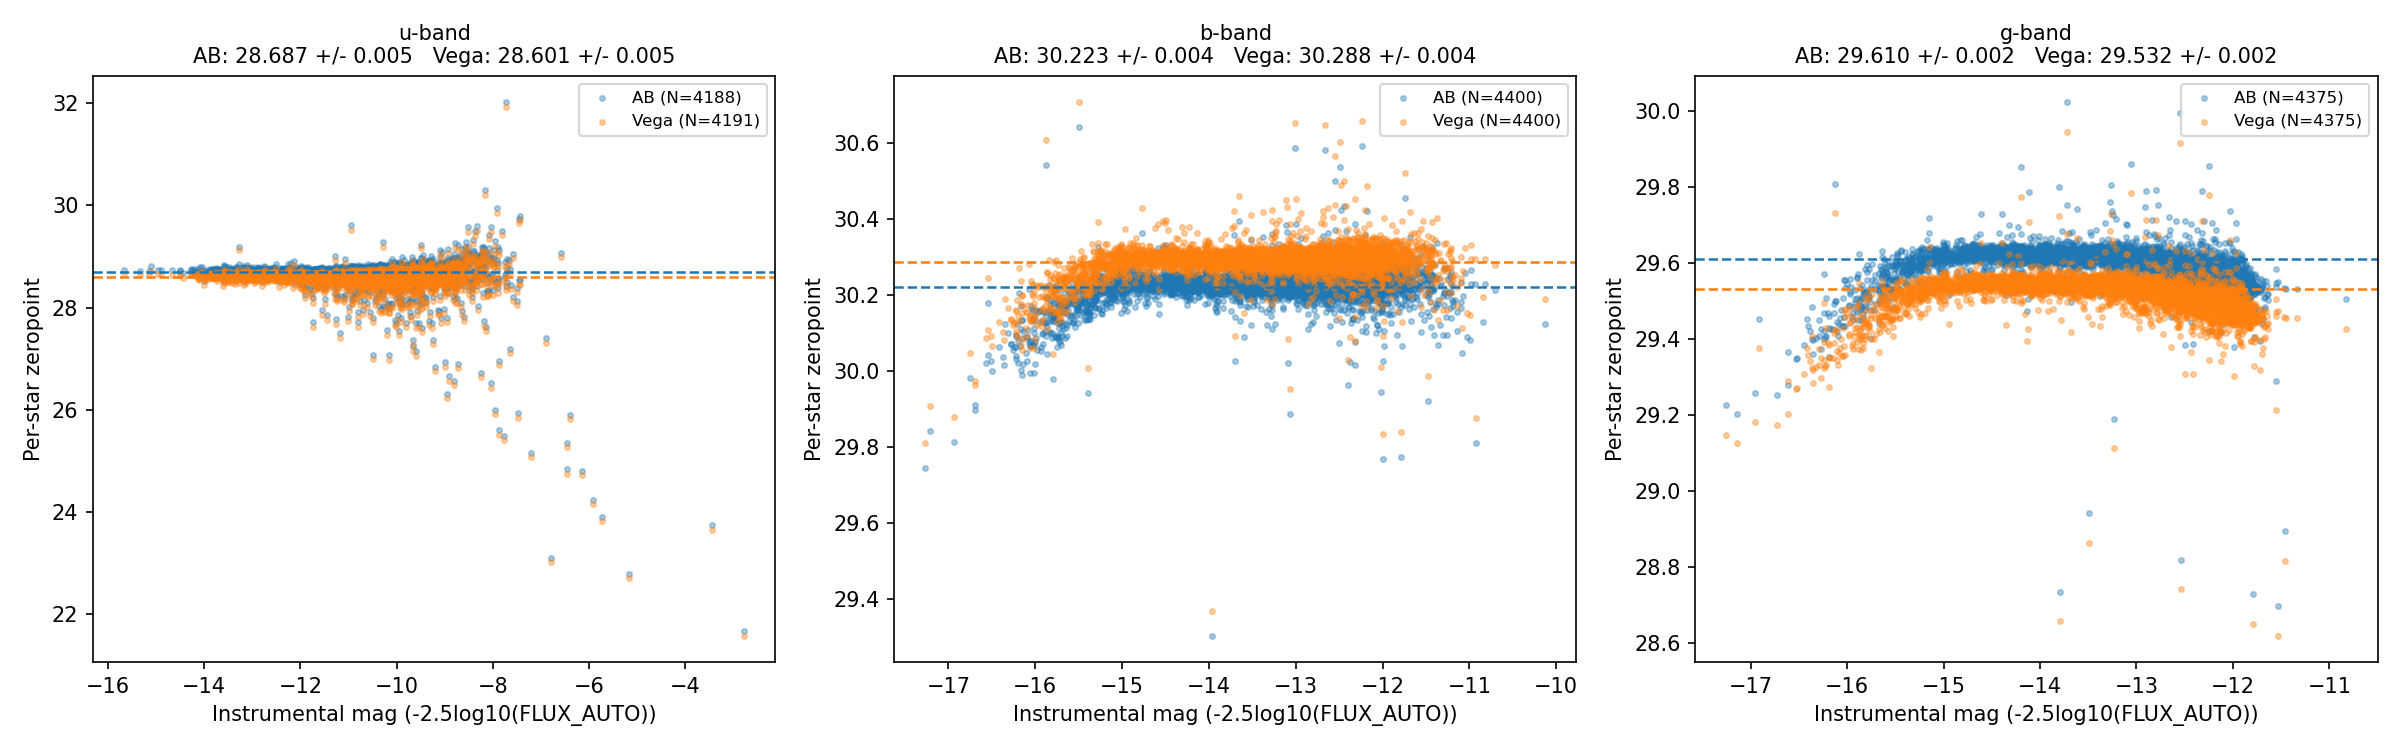
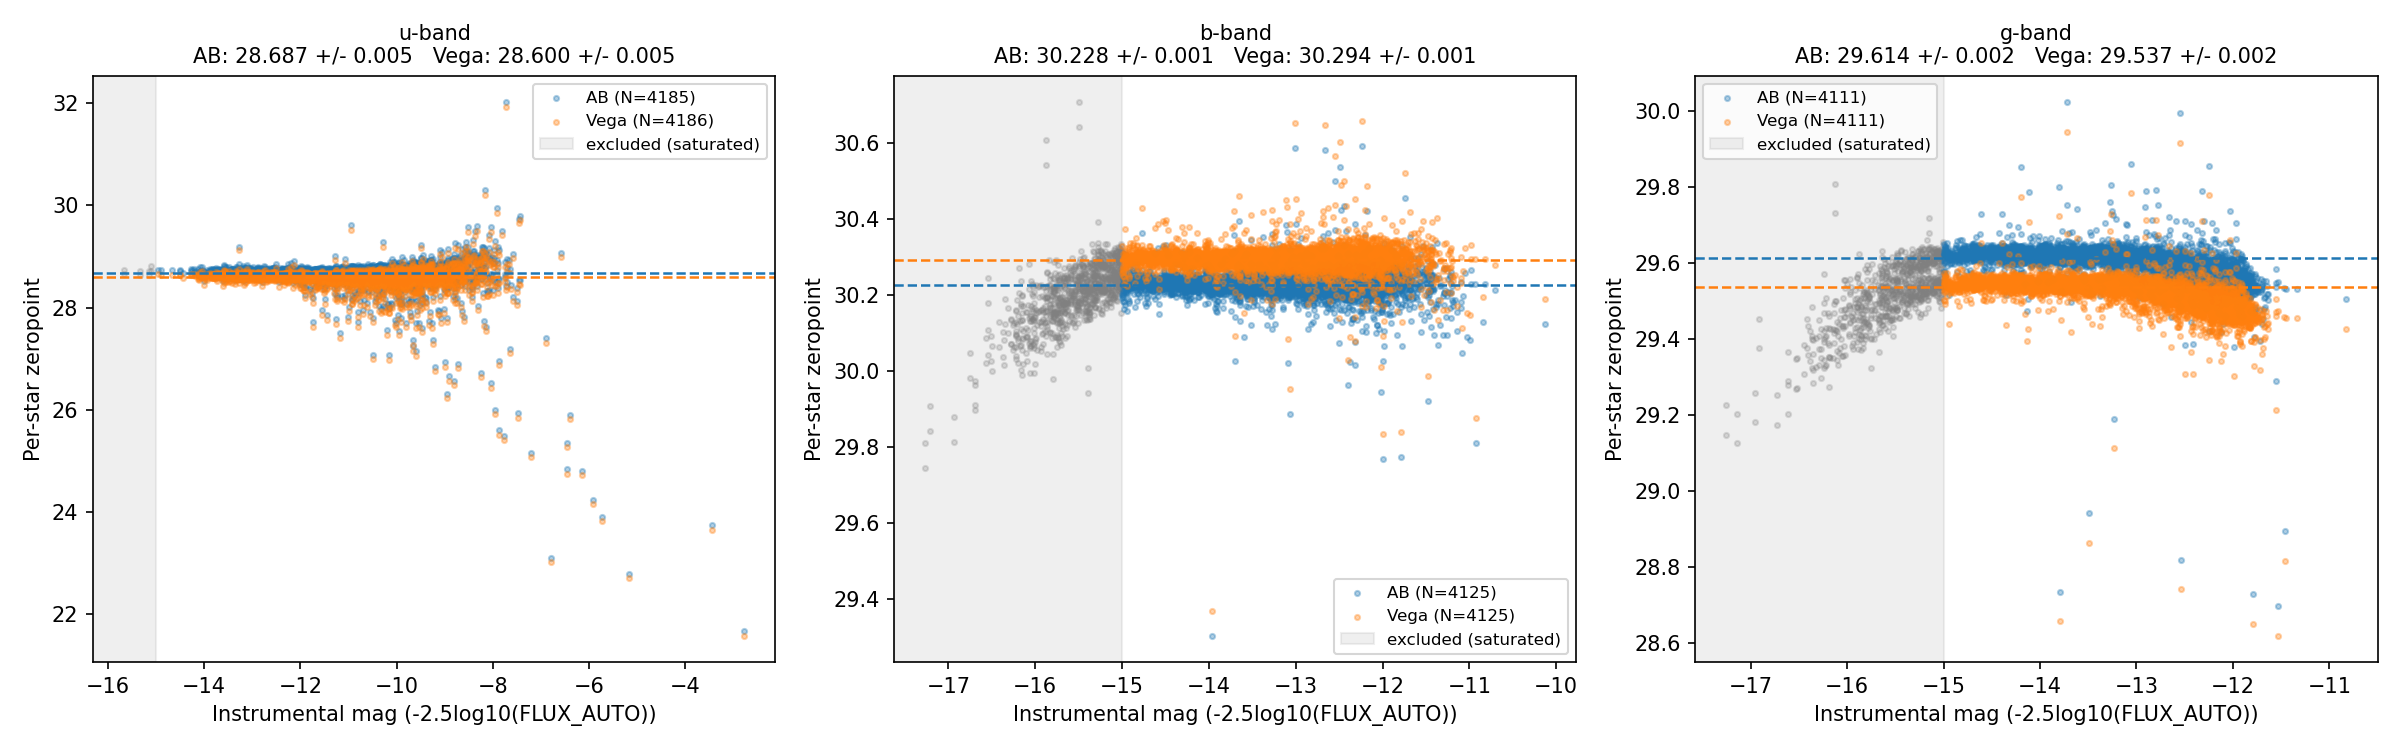
update

diff --git a/src/compute_sb_zeropoints.py b/src/compute_sb_zeropoints.py
@@ -22,7 +22,10 @@ number of detections):
        - sigma_inst,i = (2.5/ln10) * FLUXERR_COL_i / FLUX_COL_i, from
          SuperBIT's own SExtractor photometry -- an independent noise
          source, so combined in quadrature with sigma_synth,i
-  6. Aggregate two ways (config.yaml's `method` picks which is primary,
+  6. Drop stars brighter than config.yaml's `bright_mag_cut` (likely
+     saturated -- they visibly pull away from the flat trend) before
+     aggregating, though they're still kept in the per-star output table.
+  7. Aggregate two ways (config.yaml's `method` picks which is primary,
      both always printed):
        - "simple": flat sigma-clipped median/std, no error propagation
        - "weighted": inverse-variance weighted mean using the propagated
@@ -320,6 +323,18 @@ def weighted_zeropoint(zp, sigma_zp, sigma_clip_thresh=10.0, max_iter=15):
     return zp_weighted, sigma_zp_weighted, int(keep.sum()), reduced_chi2_final, inflation
 
 
+def saturation_mask(inst_mag, bright_mag_cut):
+    """
+    True for stars to *keep* -- i.e. not brighter than `bright_mag_cut`.
+    inst_mag = -2.5*log10(flux), so brighter stars have more negative
+    inst_mag; a star is cut if inst_mag < bright_mag_cut.
+    """
+    inst_mag = np.asarray(inst_mag)
+    if bright_mag_cut is None:
+        return np.ones(len(inst_mag), dtype=bool)
+    return ~(inst_mag < bright_mag_cut)
+
+
 def aggregate_zeropoint(zp, sigma_zp, method, sigma_clip_sigma=10.0):
     """
     Dispatch to either aggregation method, with a common return signature
@@ -404,17 +419,21 @@ def main():
         results[band] = out
 
         sigma_clip_sigma = cfg["sigma_clip_sigma"]
+        use = saturation_mask(out["inst_mag"], cfg.get("bright_mag_cut"))
+        n_cut = (~use).sum()
+        if n_cut:
+            print(f"[{band}] excluding {n_cut} stars brighter than inst_mag={cfg['bright_mag_cut']} (saturated)")
 
-        med_ab, std_ab, n_ab = robust_stats(np.asarray(out["zp_AB"]), sigma_clip_sigma=sigma_clip_sigma)
-        med_vega, std_vega, n_vega = robust_stats(np.asarray(out["zp_VEGA"]), sigma_clip_sigma=sigma_clip_sigma)
+        med_ab, std_ab, n_ab = robust_stats(np.asarray(out["zp_AB"])[use], sigma_clip_sigma=sigma_clip_sigma)
+        med_vega, std_vega, n_vega = robust_stats(np.asarray(out["zp_VEGA"])[use], sigma_clip_sigma=sigma_clip_sigma)
         print(f"[{band}] flat median   ZP_AB   = {med_ab:.4f} +/- {std_ab:.4f}  (N={n_ab})")
         print(f"[{band}] flat median   ZP_VEGA = {med_vega:.4f} +/- {std_vega:.4f}  (N={n_vega})")
 
         zp_ab_w, sig_ab_w, n_ab_w, chi2_ab, infl_ab = weighted_zeropoint(
-            np.asarray(out["zp_AB"]), np.asarray(out["sigma_zp_AB"]), sigma_clip_thresh=sigma_clip_sigma
+            np.asarray(out["zp_AB"])[use], np.asarray(out["sigma_zp_AB"])[use], sigma_clip_thresh=sigma_clip_sigma
         )
         zp_vega_w, sig_vega_w, n_vega_w, chi2_vega, infl_vega = weighted_zeropoint(
-            np.asarray(out["zp_VEGA"]), np.asarray(out["sigma_zp_VEGA"]), sigma_clip_thresh=sigma_clip_sigma
+            np.asarray(out["zp_VEGA"])[use], np.asarray(out["sigma_zp_VEGA"])[use], sigma_clip_thresh=sigma_clip_sigma
         )
         print(f"[{band}] weighted mean ZP_AB   = {zp_ab_w:.4f} +/- {sig_ab_w:.4f}  "
               f"(N={n_ab_w}, reduced chi2={chi2_ab:.2f}, error inflation={infl_ab:.1f}x)")
@@ -424,15 +443,16 @@ def main():
     print("\n=== Final (jackknife) zeropoints: simple vs weighted ===")
     for band in cfg["bands"]:
         out = results[band]
-        target_labels = np.asarray(out["TARGET"])
+        use = saturation_mask(out["inst_mag"], cfg.get("bright_mag_cut"))
+        target_labels = np.asarray(out["TARGET"])[use]
         print(f"[{band}]")
         for method in ("simple", "weighted"):
             theta_ab, jack_se_ab, n_targets, _ = jackknife_zeropoint(
-                np.asarray(out["zp_AB"]), np.asarray(out["sigma_zp_AB"]), target_labels,
+                np.asarray(out["zp_AB"])[use], np.asarray(out["sigma_zp_AB"])[use], target_labels,
                 method=method, sigma_clip_sigma=cfg["sigma_clip_sigma"],
             )
             theta_vega, jack_se_vega, _, _ = jackknife_zeropoint(
-                np.asarray(out["zp_VEGA"]), np.asarray(out["sigma_zp_VEGA"]), target_labels,
+                np.asarray(out["zp_VEGA"])[use], np.asarray(out["sigma_zp_VEGA"])[use], target_labels,
                 method=method, sigma_clip_sigma=cfg["sigma_clip_sigma"],
             )
             print(f"  {method:8s} ZP_AB   = {theta_ab:.4f} +/- {jack_se_ab:.4f}  (N_targets={n_targets})")
@@ -461,21 +481,32 @@ def make_diagnostic_plot(cfg, results):
         target_labels = np.asarray(out["TARGET"])
 
         sigma_clip_sigma = cfg["sigma_clip_sigma"]
+        use = saturation_mask(inst_mag, cfg.get("bright_mag_cut"))
 
-        zp_ab_w, _, n_ab_w, _ = aggregate_zeropoint(zp_ab, sigma_zp_ab, method=method, sigma_clip_sigma=sigma_clip_sigma)
-        zp_vega_w, _, n_vega_w, _ = aggregate_zeropoint(zp_vega, sigma_zp_vega, method=method, sigma_clip_sigma=sigma_clip_sigma)
+        zp_ab_w, _, n_ab_w, _ = aggregate_zeropoint(zp_ab[use], sigma_zp_ab[use], method=method, sigma_clip_sigma=sigma_clip_sigma)
+        zp_vega_w, _, n_vega_w, _ = aggregate_zeropoint(zp_vega[use], sigma_zp_vega[use], method=method, sigma_clip_sigma=sigma_clip_sigma)
 
         theta_ab, jack_se_ab, _, _ = jackknife_zeropoint(
-            zp_ab, sigma_zp_ab, target_labels, method=method, sigma_clip_sigma=sigma_clip_sigma
+            zp_ab[use], sigma_zp_ab[use], target_labels[use], method=method, sigma_clip_sigma=sigma_clip_sigma
         )
         theta_vega, jack_se_vega, _, _ = jackknife_zeropoint(
-            zp_vega, sigma_zp_vega, target_labels, method=method, sigma_clip_sigma=sigma_clip_sigma
+            zp_vega[use], sigma_zp_vega[use], target_labels[use], method=method, sigma_clip_sigma=sigma_clip_sigma
         )
 
-        ax.scatter(inst_mag, zp_ab, s=6, alpha=0.35, color="tab:blue", label=f"AB (N={n_ab_w})")
-        ax.scatter(inst_mag, zp_vega, s=6, alpha=0.35, color="tab:orange", label=f"Vega (N={n_vega_w})")
+        if (~use).any():
+            ax.scatter(inst_mag[~use], zp_ab[~use], s=6, alpha=0.25, color="gray")
+            ax.scatter(inst_mag[~use], zp_vega[~use], s=6, alpha=0.25, color="gray")
+        ax.scatter(inst_mag[use], zp_ab[use], s=6, alpha=0.35, color="tab:blue", label=f"AB (N={n_ab_w})")
+        ax.scatter(inst_mag[use], zp_vega[use], s=6, alpha=0.35, color="tab:orange", label=f"Vega (N={n_vega_w})")
         ax.axhline(zp_ab_w, color="tab:blue", lw=1.2, ls="--")
         ax.axhline(zp_vega_w, color="tab:orange", lw=1.2, ls="--")
+
+        bright_cut = cfg.get("bright_mag_cut")
+        if bright_cut is not None:
+            xlim = ax.get_xlim()
+            ax.axvspan(xlim[0], bright_cut, color="gray", alpha=0.12, zorder=0,
+                       label="excluded (saturated)")
+            ax.set_xlim(xlim)
 
         ax.set_xlabel(f"Instrumental mag (-2.5log10({cfg['flux_col']}))")
         ax.set_ylabel("Per-star zeropoint")

diff --git a/theory.md b/theory.md
@@ -99,9 +99,11 @@ synthetic magnitude):
 
 $$\text{ZP}_i = m_i + 2.5\log_{10}(F_i)$$
 
-These ~4500 per-star estimates are combined with error-weighting and a
-leave-one-target-out jackknife into one zeropoint per band, with an error
-bar:
+Very bright stars (instrumental magnitude below `bright_mag_cut`, shaded gray
+below) are dropped first -- they visibly pull away from the flat trend,
+consistent with detector saturation. The remaining ~4000-4500 per-star
+estimates are combined with error-weighting and a leave-one-target-out
+jackknife into one zeropoint per band, with an error bar:
 
 ![Final zeropoint diagnostic](docs/figures/sb_zeropoints_diagnostic.png)
 

diff --git a/README.md b/README.md
@@ -32,9 +32,9 @@ Writes per-star tables and diagnostic plots to `outputs/`. Edit
 
 | Band | ZP (AB) | ZP (Vega) |
 |------|---------|-----------|
-| u | 28.687 ± 0.005 | 28.601 ± 0.005 |
-| b | 30.223 ± 0.004 | 30.288 ± 0.004 |
-| g | 29.610 ± 0.002 | 29.532 ± 0.002 |
+| u | 28.687 ± 0.005 | 28.600 ± 0.005 |
+| b | 30.228 ± 0.001 | 30.294 ± 0.001 |
+| g | 29.614 ± 0.002 | 29.537 ± 0.002 |
 
 (jackknifed across 30 target fields; see `theory.md` for why that error
 bar, not a flat per-star one, is the one to trust)
